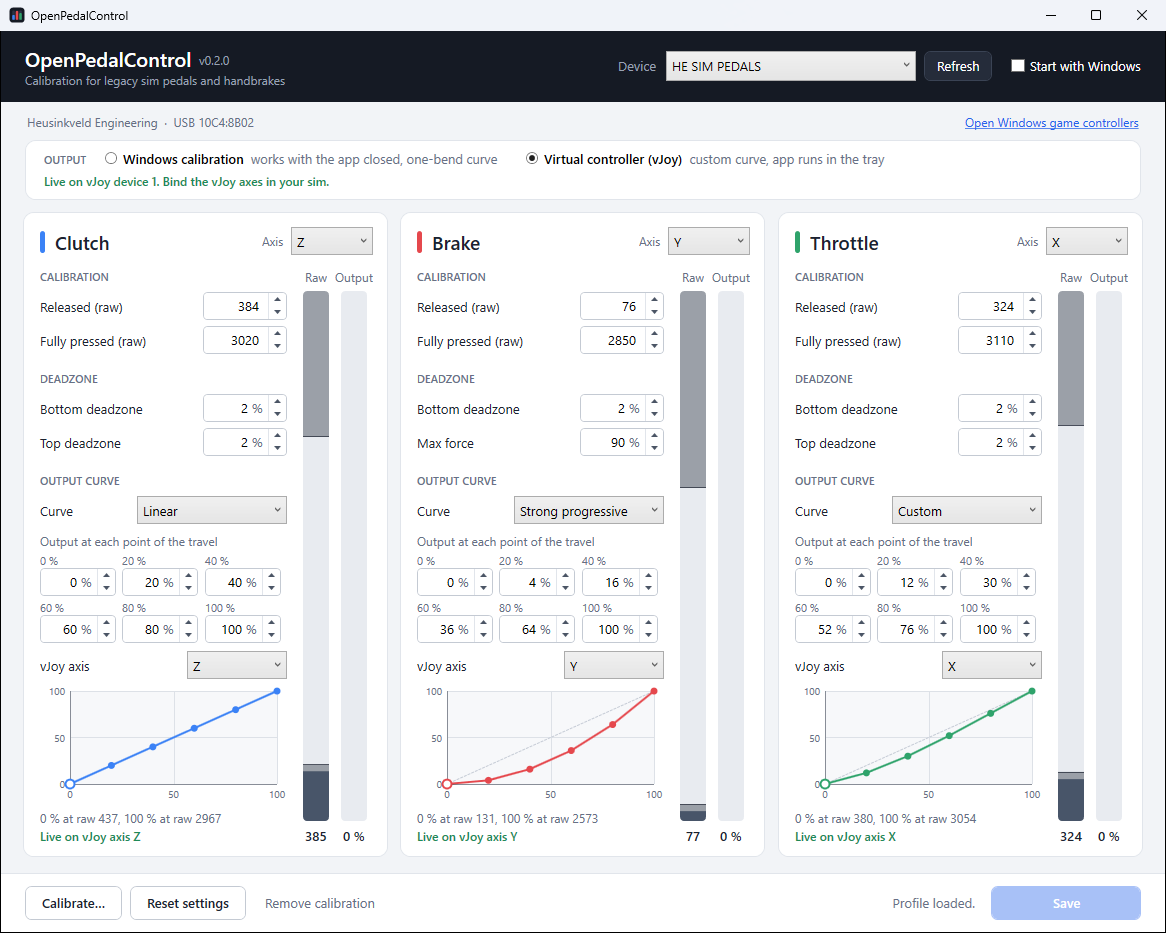
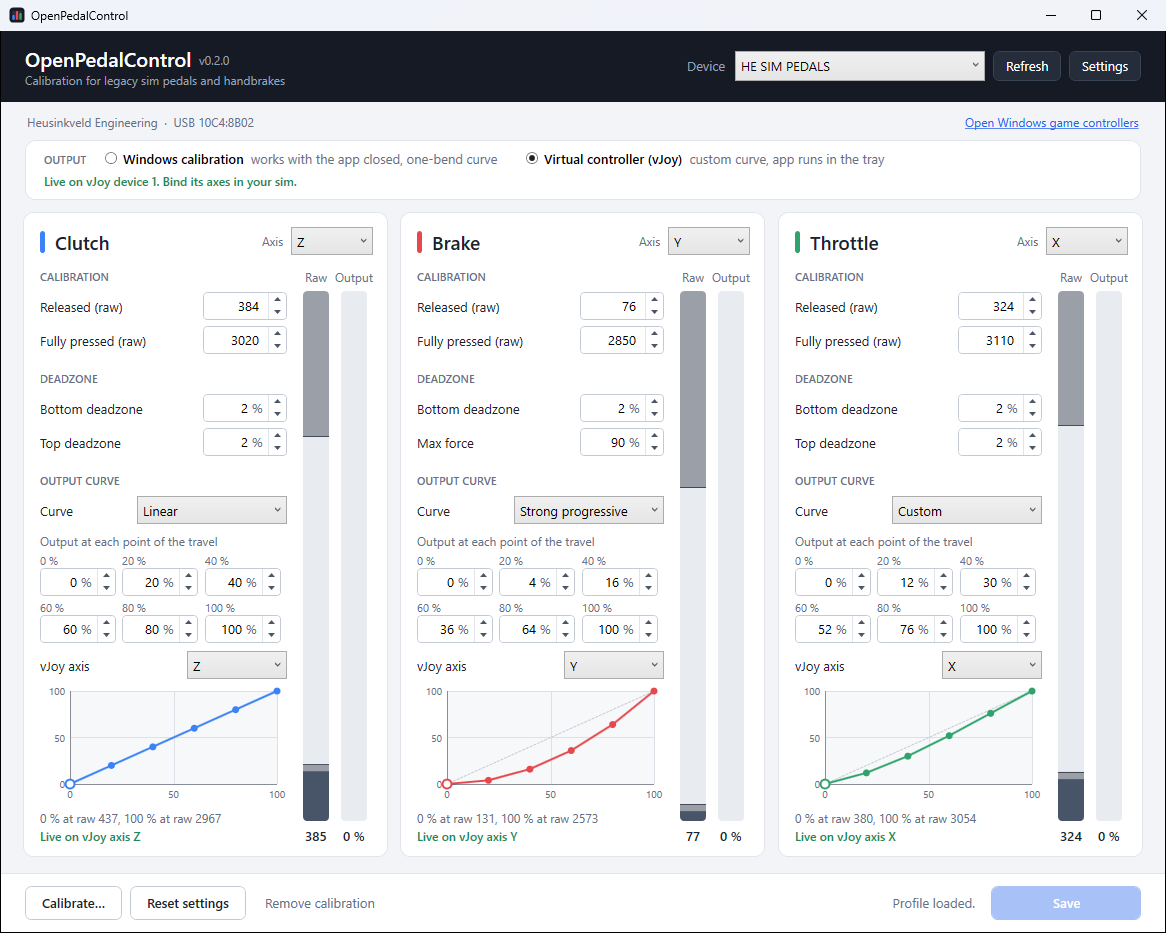
Refresh the README and screenshots for v0.2.0
New main-window screenshot in vJoy mode, a Settings screenshot and section,
a note on the checksum check for updates, and how to move from v0.1.0.

Changed region(s): [[0.7719, 0.0311, 0.988, 0.0932], [0.5249, 0.0311, 0.7101, 0.0932], [0.1544, 0.1865, 0.2779, 0.2176]]

diff --git a/README.md b/README.md
@@ -24,8 +24,9 @@ output curves and live bars.
   - **Virtual controller (vJoy)**: fully custom 6-point curve with presets, the app runs in the tray.
 - **Live view** of the raw sensor value and of what a game will receive.
 - **Settings**: start with Windows (hidden in the notification area), which vJoy device to use, updates.
-- **Updates** from GitHub: checked at startup (can be turned off) or by hand, installed in one click. After an
-  update the app comes back in the tray with a notification; the full changelog is under *What's new*.
+- **Updates** from GitHub: checked at startup (can be turned off) or by hand, installed in one click. Each
+  download is checked against the SHA-256 GitHub publishes for the release before it runs. After an update the
+  app comes back in the tray with a notification; the full changelog is under *What's new*.
 - **Raw numbers stay editable**, for those who know their values from DIView.
 - Picks up a calibration that already exists in Windows, and can remove its own again without a trace.
 
@@ -36,9 +37,20 @@ From the [latest release](../../releases/latest):
 - **`OpenPedalControl-Setup-x.y.z.exe`** (recommended): installs the app and, if you leave the box ticked,
   the free [vJoy](https://github.com/BrunnerInnovation/vJoy) driver needed for custom curves. Without vJoy you can
   only use the Windows calibration (one-bend curve). vJoy can also be added later from the app's Settings.
-- **`OpenPedalControl.exe`**: the portable app on its own, nothing to install.
+- **`OpenPedalControl.exe`** (or the `-portable.zip` with the README and license): the portable app on its
+  own, nothing to install.
 
-Windows 10 or 11 (64-bit). The .NET Framework 4.8 it uses is part of Windows.
+Windows 10 or 11 (64-bit). The .NET Framework 4.8 it uses is part of Windows. Coming from v0.1.0? It has no
+update check yet, so download v0.2.0 once by hand; from then on the app updates itself.
+
+## Settings
+
+![OpenPedalControl settings](docs/settings.png)
+
+- **Start with Windows**: the app starts hidden in the notification area. Only needed in vJoy mode.
+- **vJoy device**: *Automatic* takes the first device no other program uses; or pick one of the 16 yourself.
+  *Configure vJoy…* opens vJoy's own tool. Without vJoy, this card offers to install it.
+- **Updates**: check at startup or by hand, install in one click, and *What's new* for the changelog.
 
 ## Output modes
 
@@ -104,10 +116,10 @@ The exe ends up in `src/OpenPedalControl/bin/Release/net48/`. The installer addi
 [Inno Setup 6](https://jrsoftware.org/isinfo.php):
 
 ```
-./installer/build-installer.ps1 -Version 0.2.0
+./installer/build-installer.ps1 -Version 0.3.0
 ```
 
-It downloads the official vJoy installer, checks its SHA-256 and bundles it. Pushing a tag like `v0.2.0` makes
+It downloads the official vJoy installer, checks its SHA-256 and bundles it. Pushing a tag like `v0.3.0` makes
 GitHub Actions build everything and publish a release. Add the release to [CHANGELOG.md](CHANGELOG.md) first: it
 is built into the app and shown as *What's new*.
 
